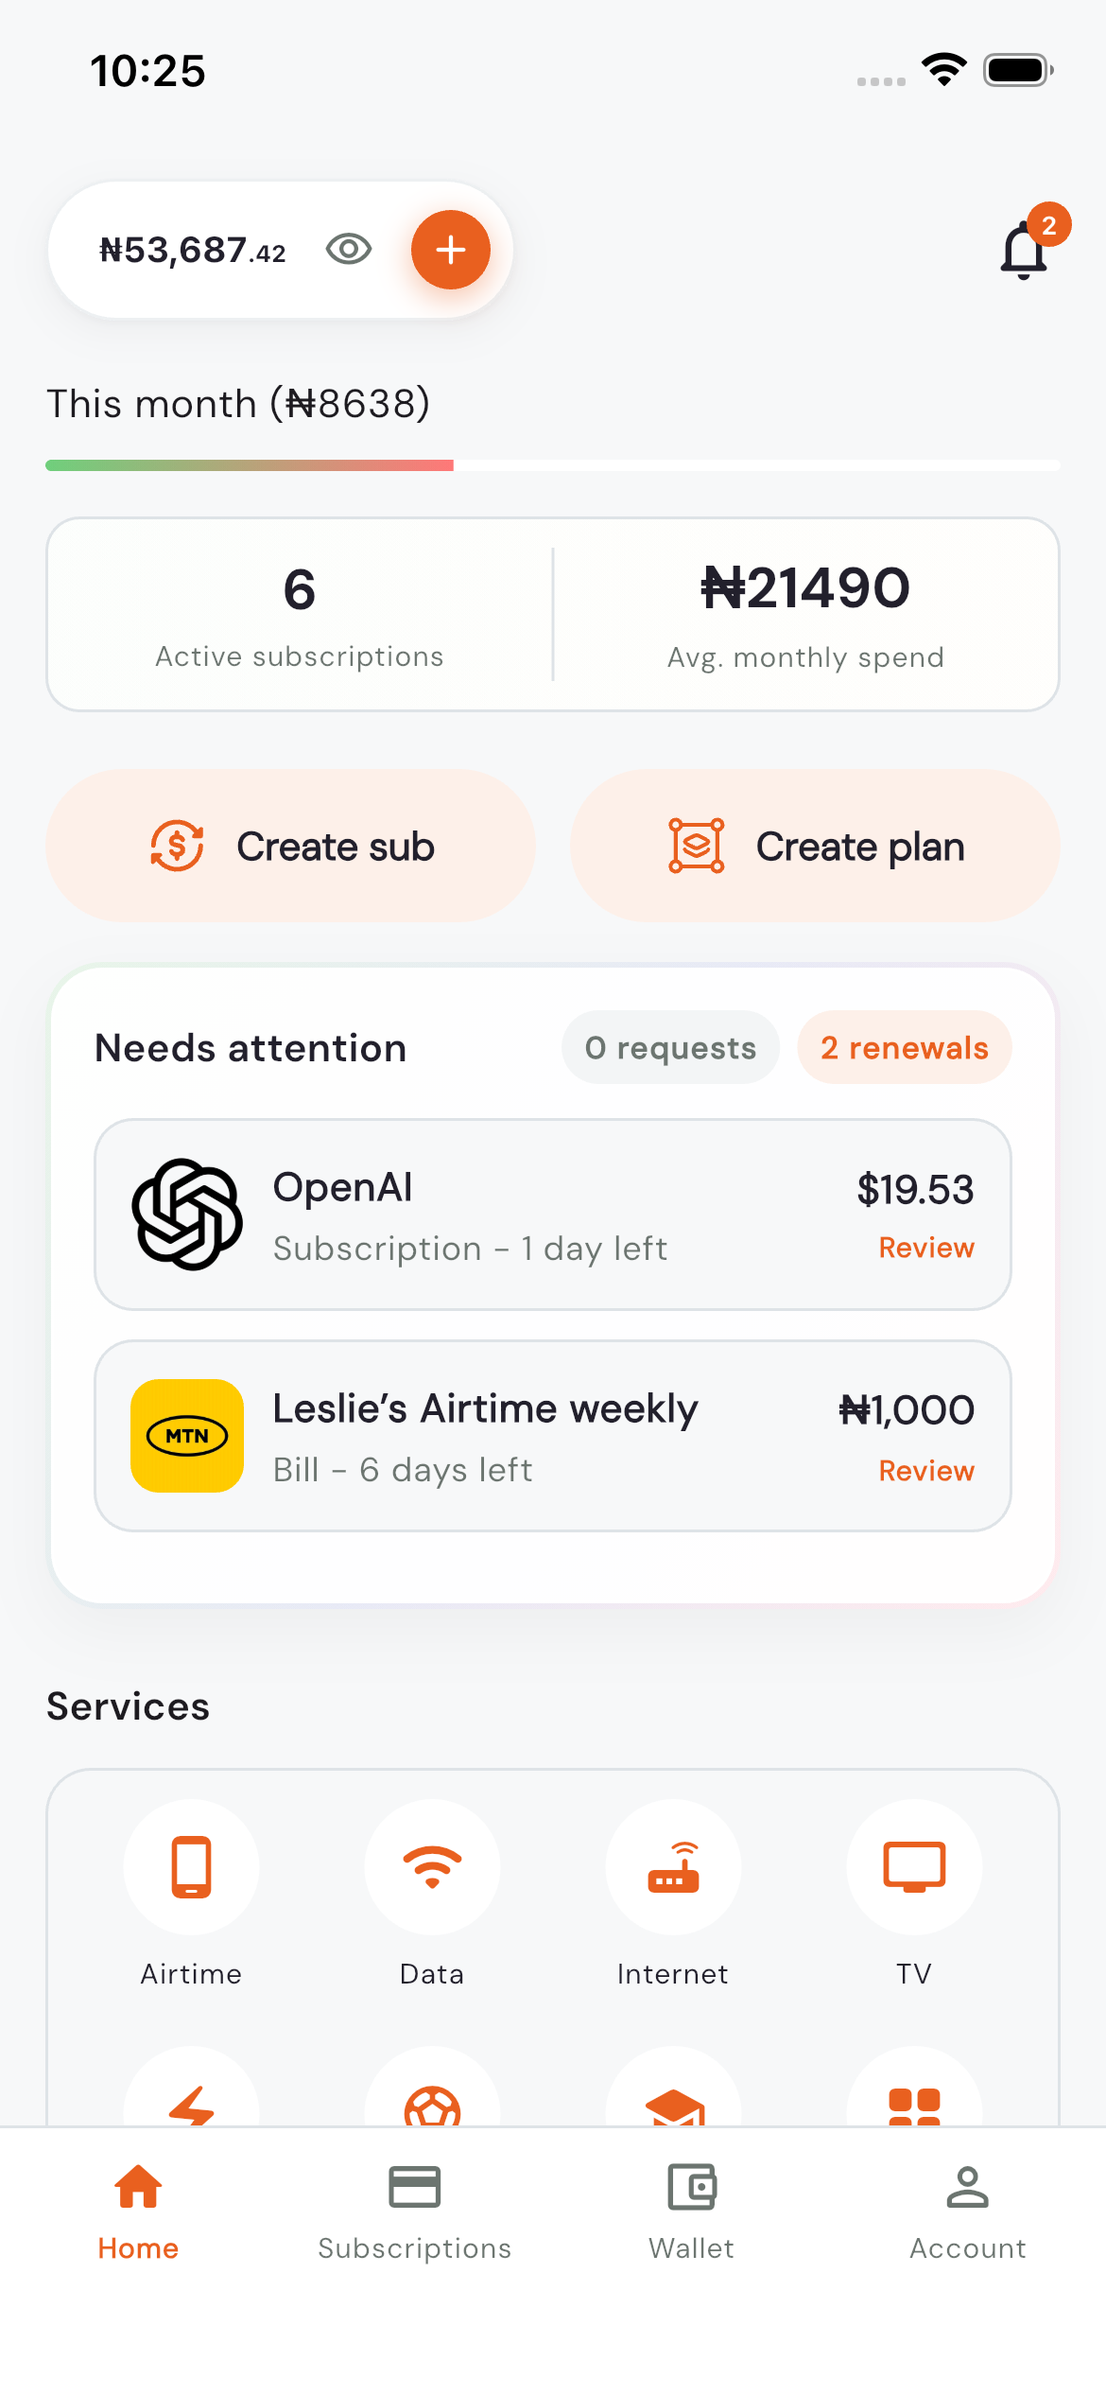
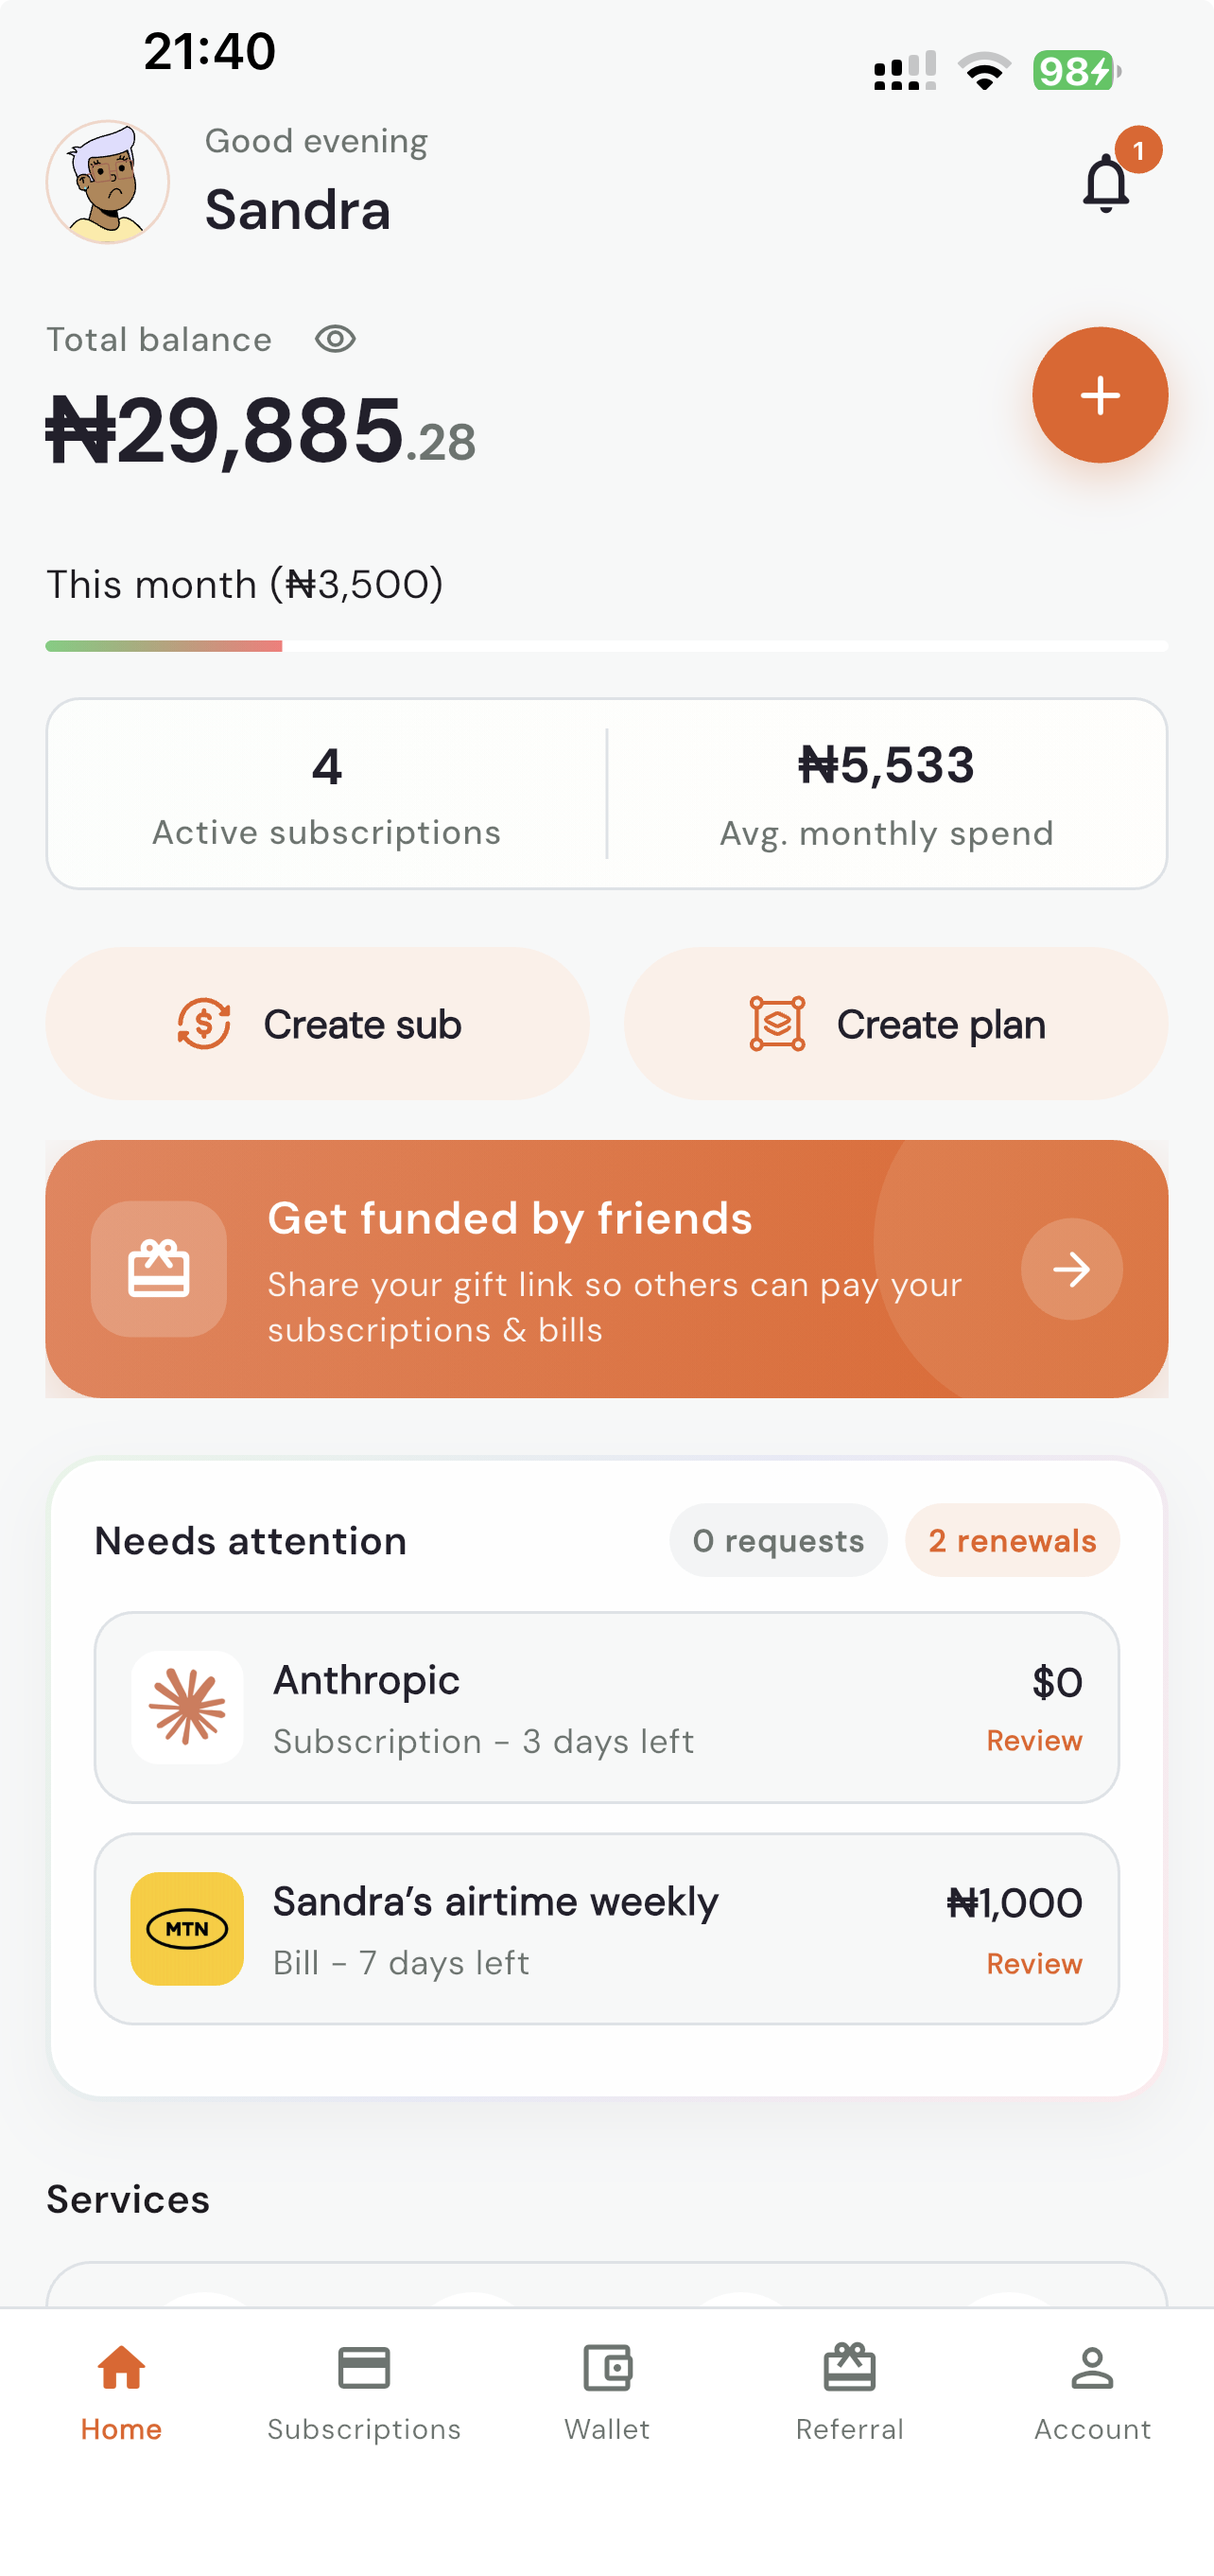
hero: refresh the phone screenshot
Newer home screen — gift link banner, the renewals card, and the
balance/spend summary. Replaces the older shot that predated gifting.

The source was a TestFlight build, so the "◀ TestFlight" strip is
removed: the status bar is spliced back on above the app content rather
than cropping the whole top, which keeps the framing consistent with the
shot it replaces. Cache-busted to v=3; structured-data.ts points at the
same file and picks it up automatically.

diff --git a/src/components/HeroSection.tsx b/src/components/HeroSection.tsx
@@ -75,8 +75,8 @@ export default function HeroSection() {
         <div className="mt-16 w-full max-w-[268px] sm:max-w-[300px] lg:mt-20 lg:max-w-[340px]">
           <div className="rounded-[2rem] border border-line bg-surface p-2 shadow-plinth">
             <img
-              src="/images/landing/phone-screen.png?v=2"
-              alt="Subsecute app home screen showing wallet balance, active subscriptions, monthly spend, and upcoming renewals"
+              src="/images/landing/phone-screen.png?v=3"
+              alt="Subsecute app home screen showing a naira wallet balance, four active subscriptions, average monthly spend, a gift link banner, and two renewals needing attention"
               className="w-full rounded-[1.6rem]"
             />
           </div>
